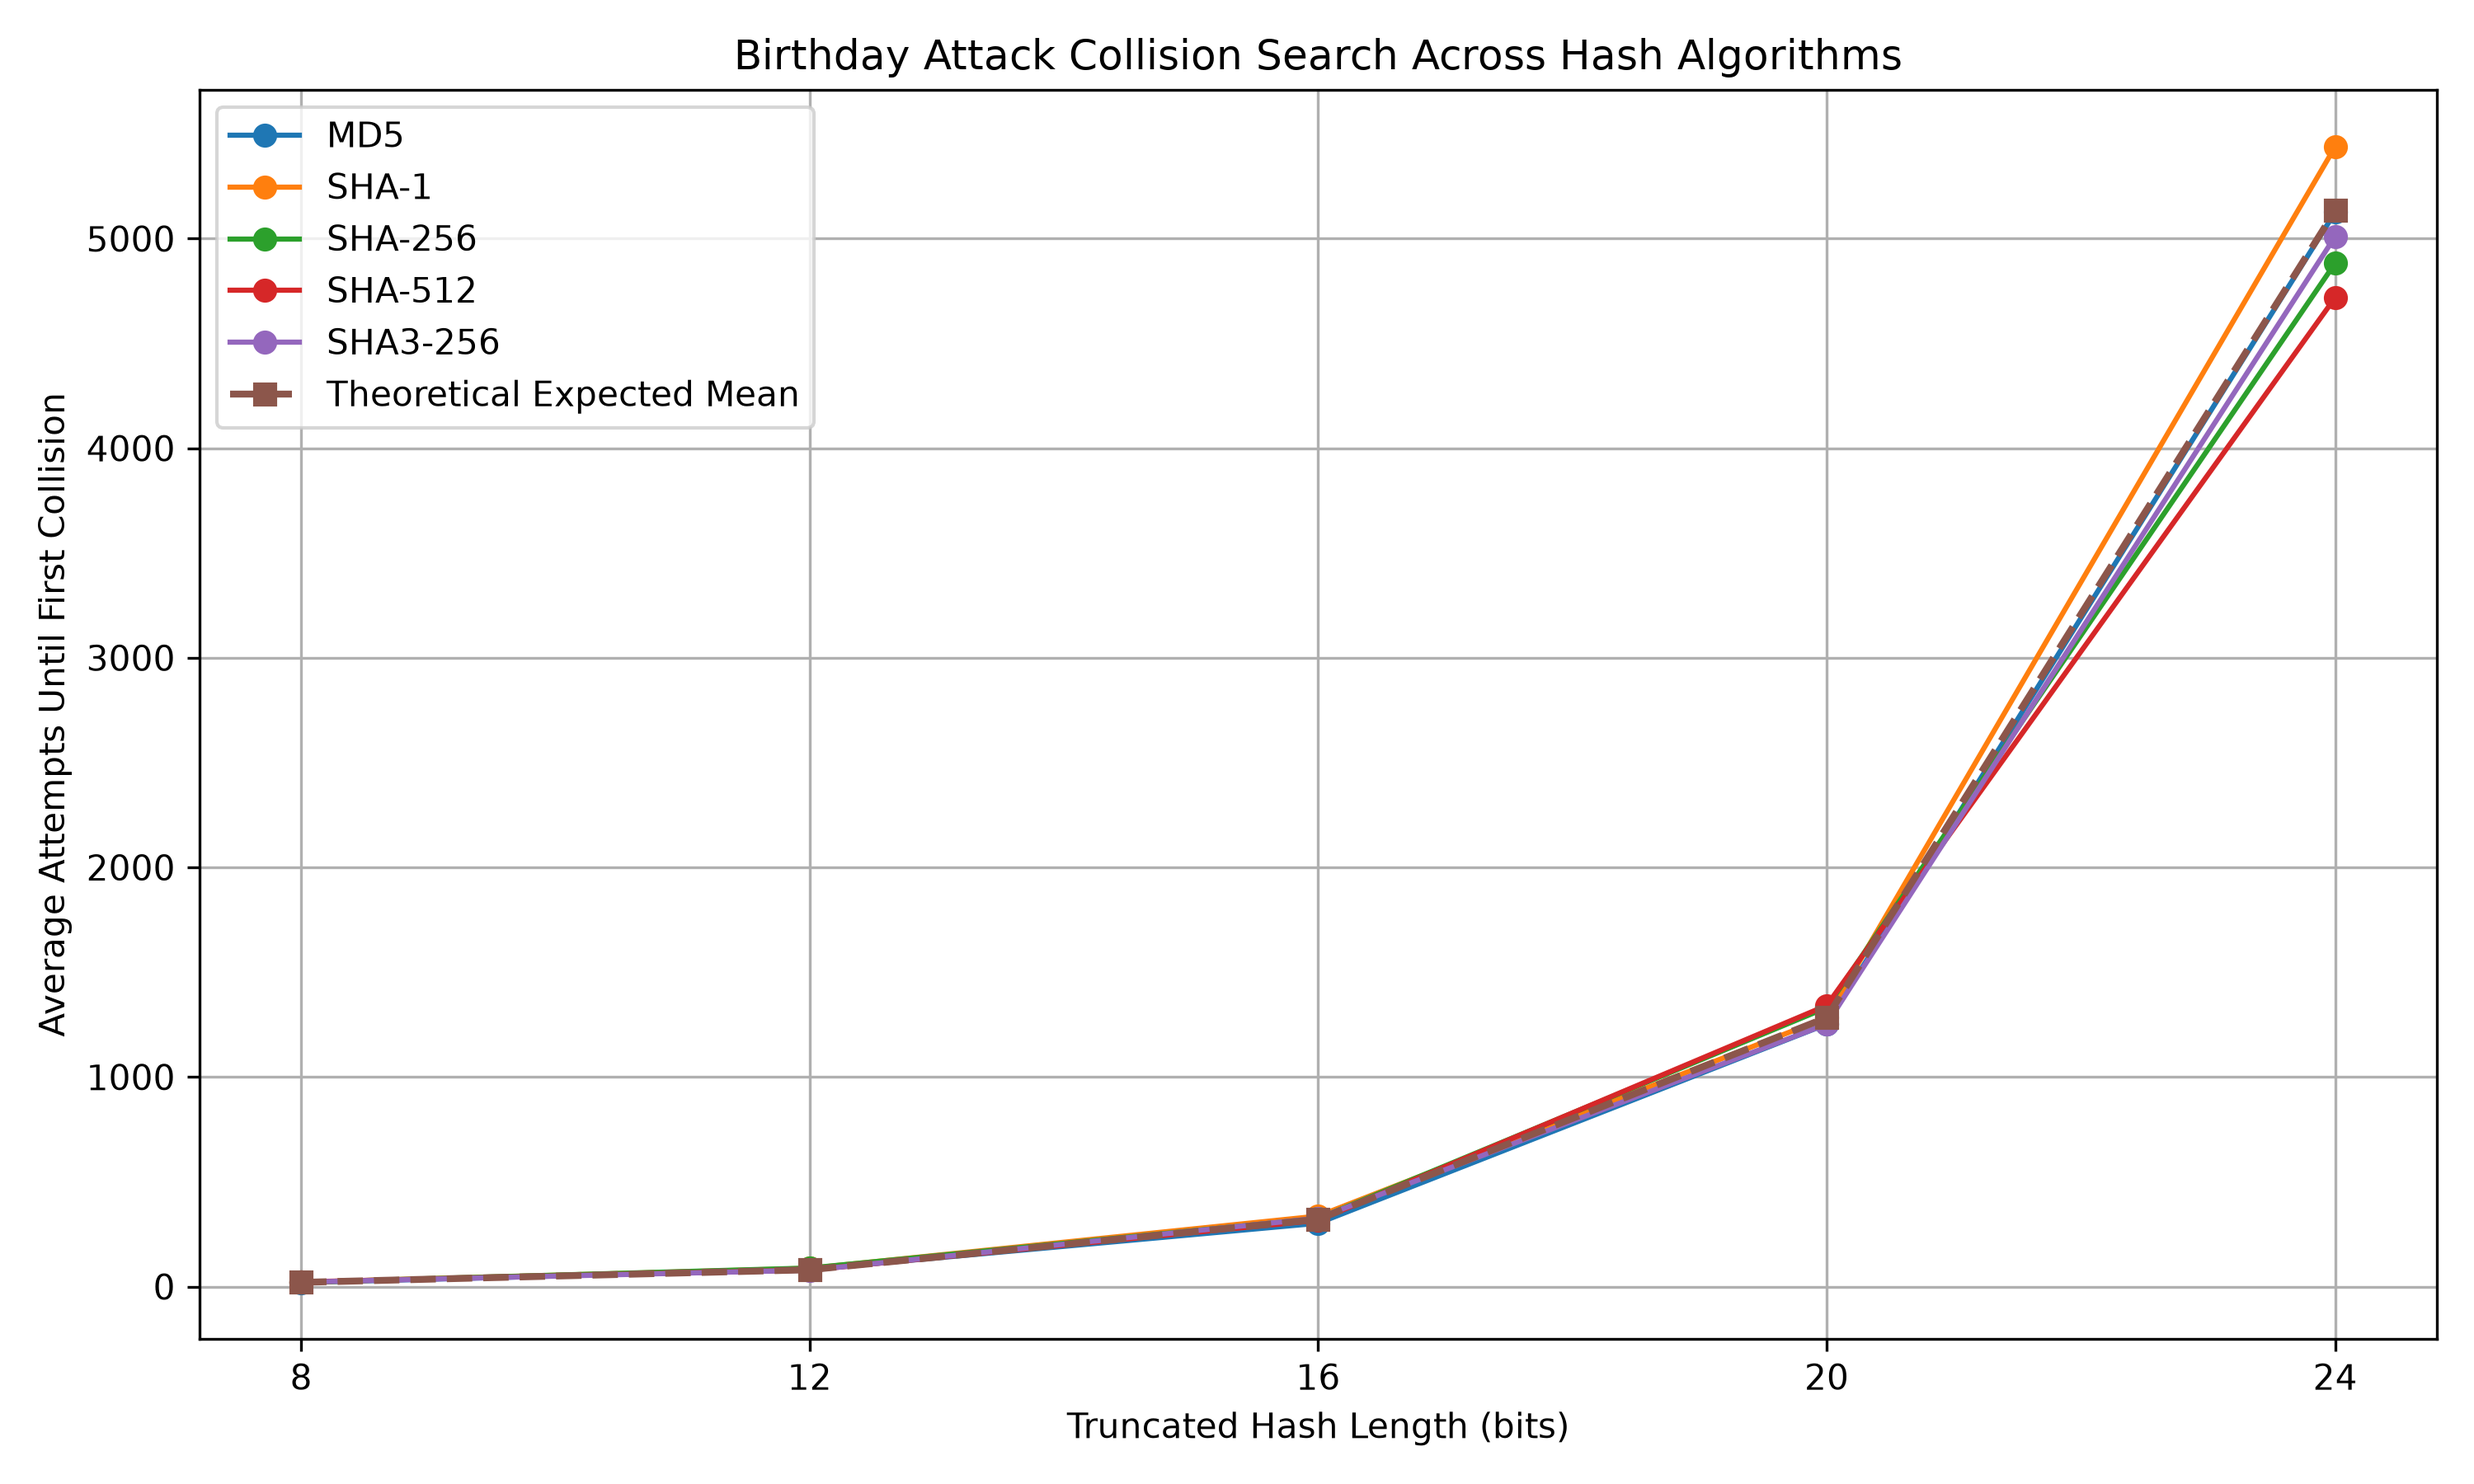
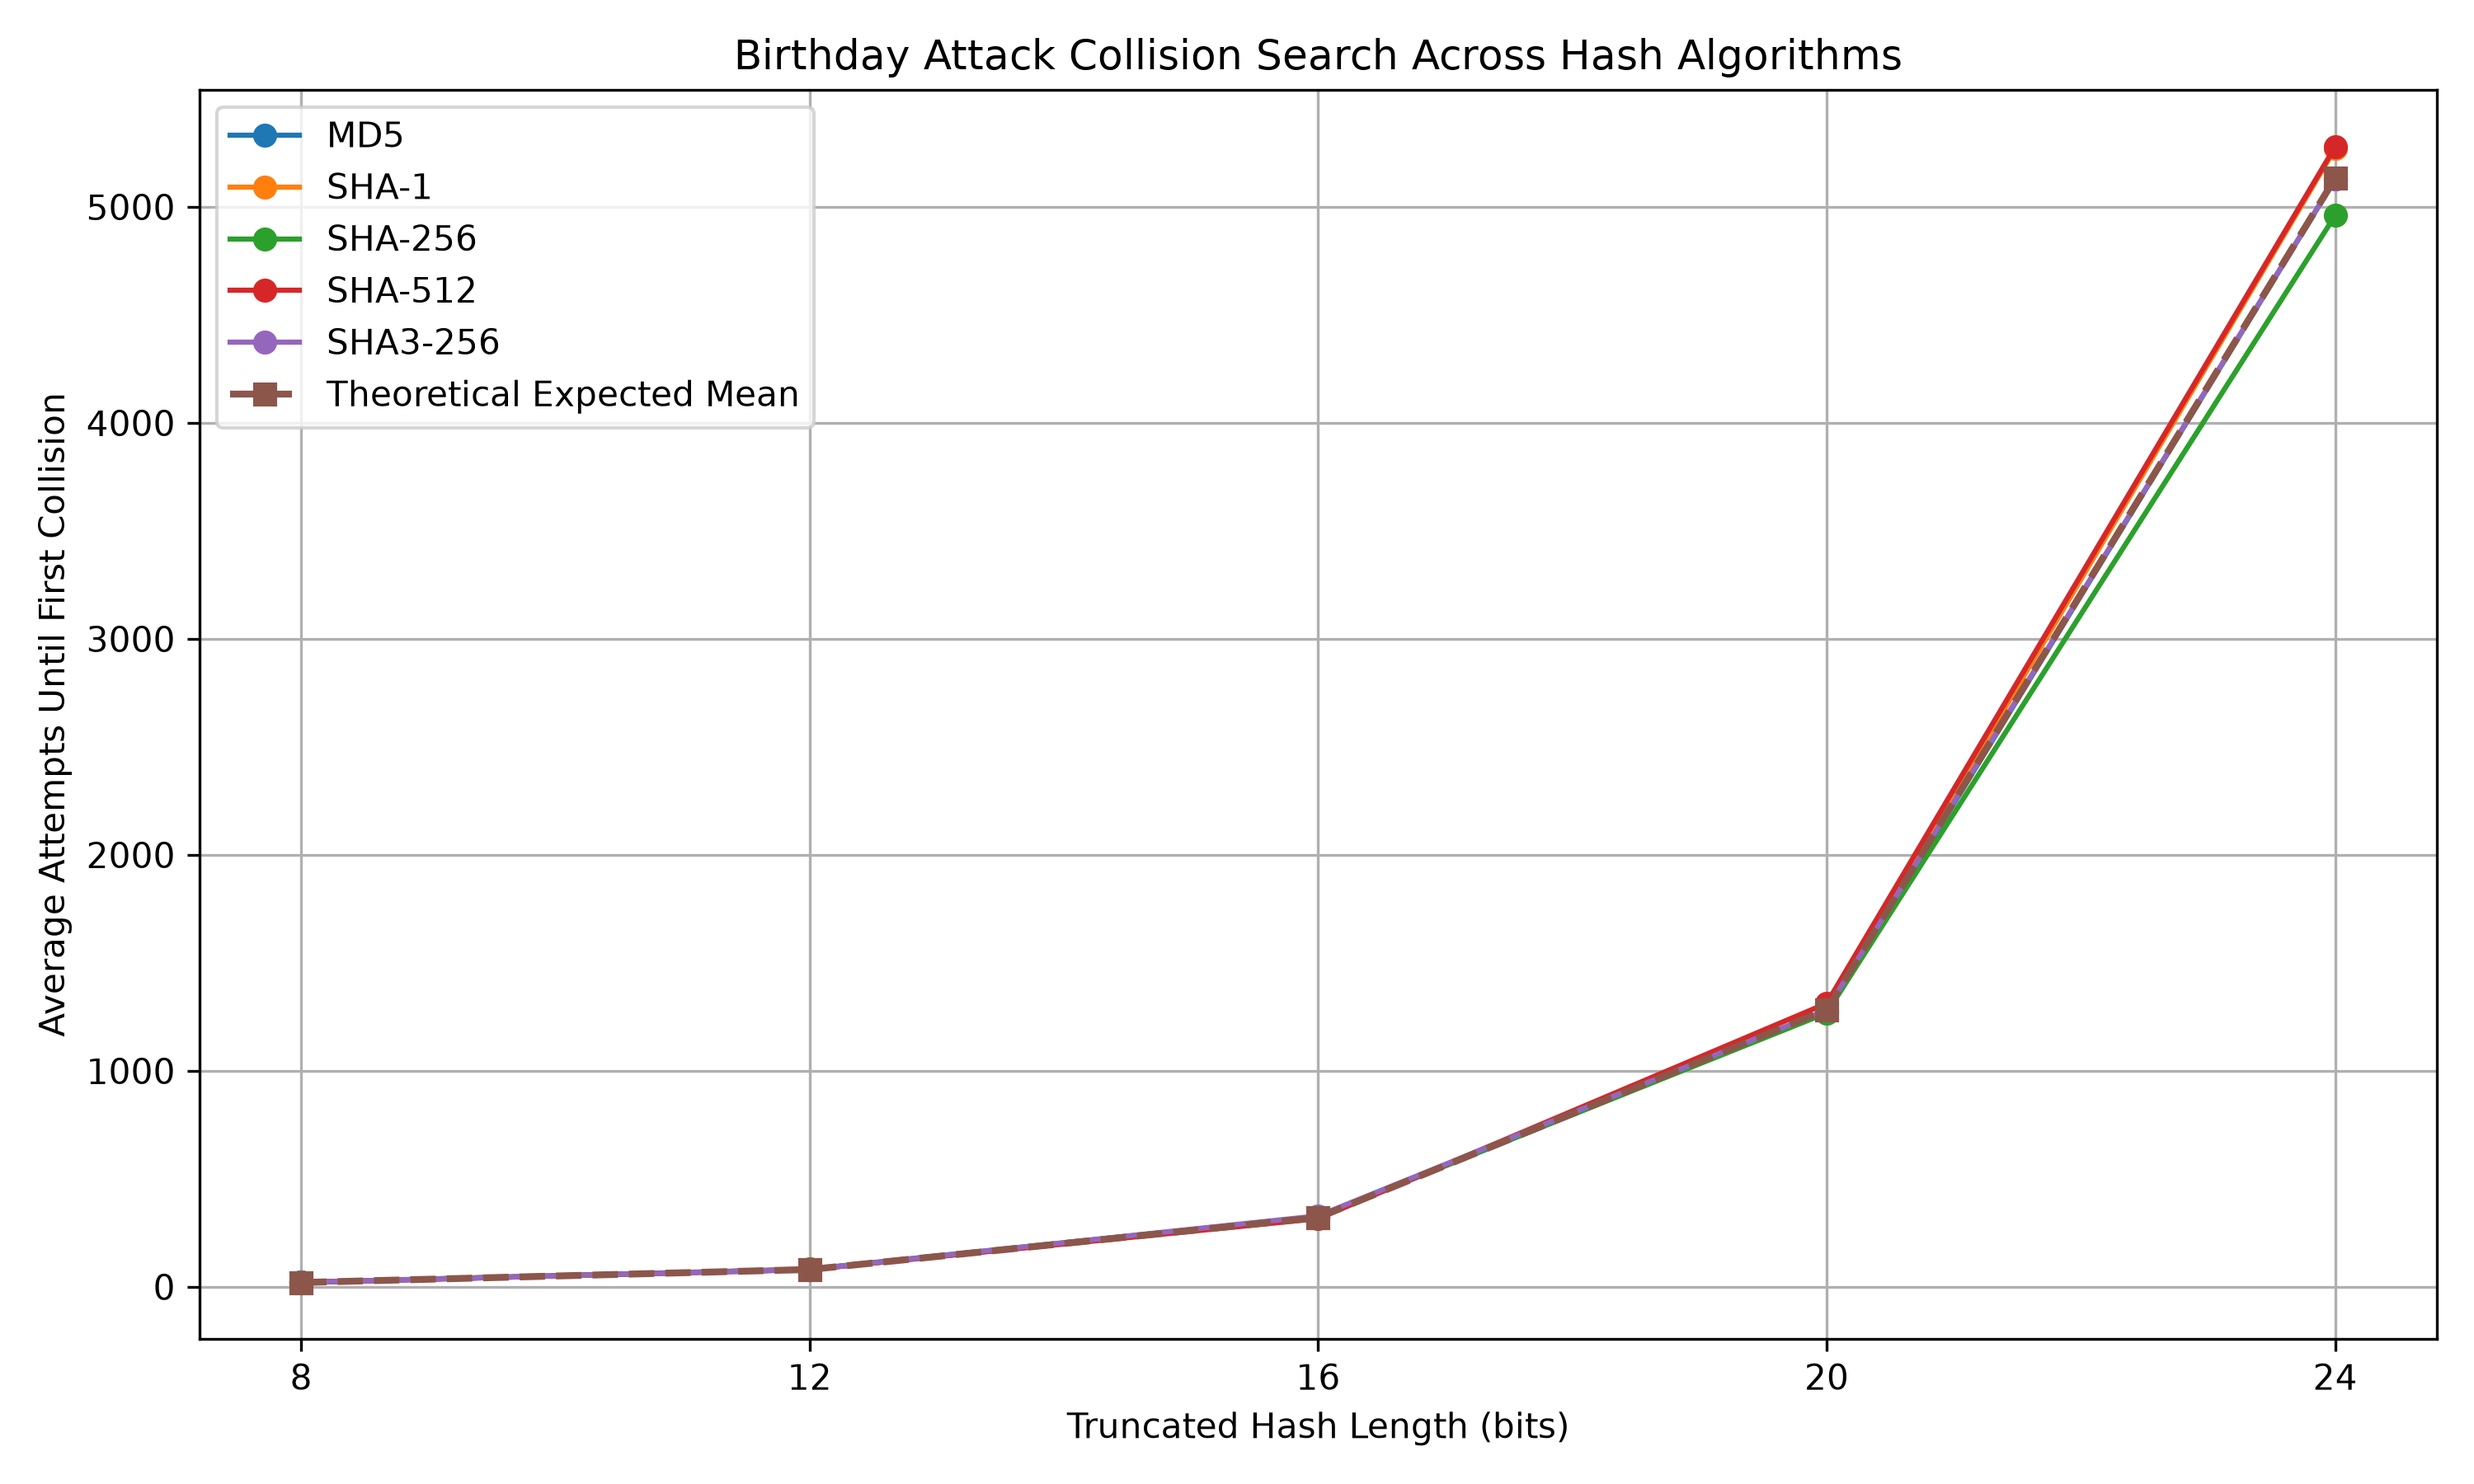
Add 1000-trial multi-algorithm collision analysis

diff --git a/ICS423_birthday_attack/ICS423_birthday_attack.py b/ICS423_birthday_attack/ICS423_birthday_attack.py
@@ -38,7 +38,7 @@ def find_collision(algorithm_name, trial_number, bits):
 
     while True:
         message = (
-            f"{algorithm_name}_{bits}bit_"
+            f"{bits}bit_"
             f"trial{trial_number}_message{attempt}"
         )
 
@@ -54,7 +54,7 @@ def find_collision(algorithm_name, trial_number, bits):
 
 
 digest_lengths = [8, 12, 16, 20, 24]
-number_of_trials = 100
+number_of_trials = 1000
 
 summary_results = []
 
@@ -270,6 +270,131 @@ plt.savefig(
 print(
     "Graph saved to "
     "collision_comparison_all_algorithms.png"
+)
+
+plt.show()
+
+# --------------------------------------------------
+# Graph 2:
+# Log-scale collision comparison
+# --------------------------------------------------
+
+plt.figure(figsize=(10, 6))
+
+for algorithm_name in hash_functions:
+
+    algorithm_rows = [
+        row for row in summary_results
+        if row[0] == algorithm_name
+    ]
+
+    bits_values = [
+        row[1] for row in algorithm_rows
+    ]
+
+    experimental_averages = [
+        row[3] for row in algorithm_rows
+    ]
+
+    plt.plot(
+        bits_values,
+        experimental_averages,
+        marker="o",
+        label=algorithm_name
+    )
+
+
+plt.plot(
+    digest_lengths,
+    expected_values,
+    marker="s",
+    linestyle="--",
+    linewidth=2,
+    label="Theoretical Expected Mean"
+)
+
+plt.yscale("log", base=2)
+
+plt.xlabel("Truncated Hash Length (bits)")
+plt.ylabel("Average Attempts Until First Collision (Log Scale)")
+
+plt.title(
+    "Birthday Attack Collision Search "
+    "Across Hash Algorithms (Log Scale)"
+)
+
+plt.xticks(digest_lengths)
+plt.grid(True)
+plt.legend()
+
+plt.tight_layout()
+
+plt.savefig(
+    "collision_comparison_log_scale.png",
+    dpi=300
+)
+
+print(
+    "Graph saved to "
+    "collision_comparison_log_scale.png"
+)
+
+plt.show()
+
+# --------------------------------------------------
+# Graph 3:
+# Execution time by algorithm
+# --------------------------------------------------
+
+plt.figure(figsize=(10, 6))
+
+for algorithm_name in hash_functions:
+
+    algorithm_rows = [
+        row for row in summary_results
+        if row[0] == algorithm_name
+    ]
+
+    bits_values = [
+        row[1] for row in algorithm_rows
+    ]
+
+    execution_times = [
+        row[11] for row in algorithm_rows
+    ]
+
+    plt.plot(
+        bits_values,
+        execution_times,
+        marker="o",
+        label=algorithm_name
+    )
+
+
+plt.xlabel("Truncated Hash Length (bits)")
+plt.ylabel(
+    f"Execution Time for {number_of_trials} Trials (seconds)"
+)
+
+plt.title(
+    "Birthday Attack Execution Time "
+    "Across Hash Algorithms"
+)
+
+plt.xticks(digest_lengths)
+plt.grid(True)
+plt.legend()
+
+plt.tight_layout()
+
+plt.savefig(
+    "collision_execution_time.png",
+    dpi=300
+)
+
+print(
+    "Graph saved to "
+    "collision_execution_time.png"
 )
 
 plt.show()
